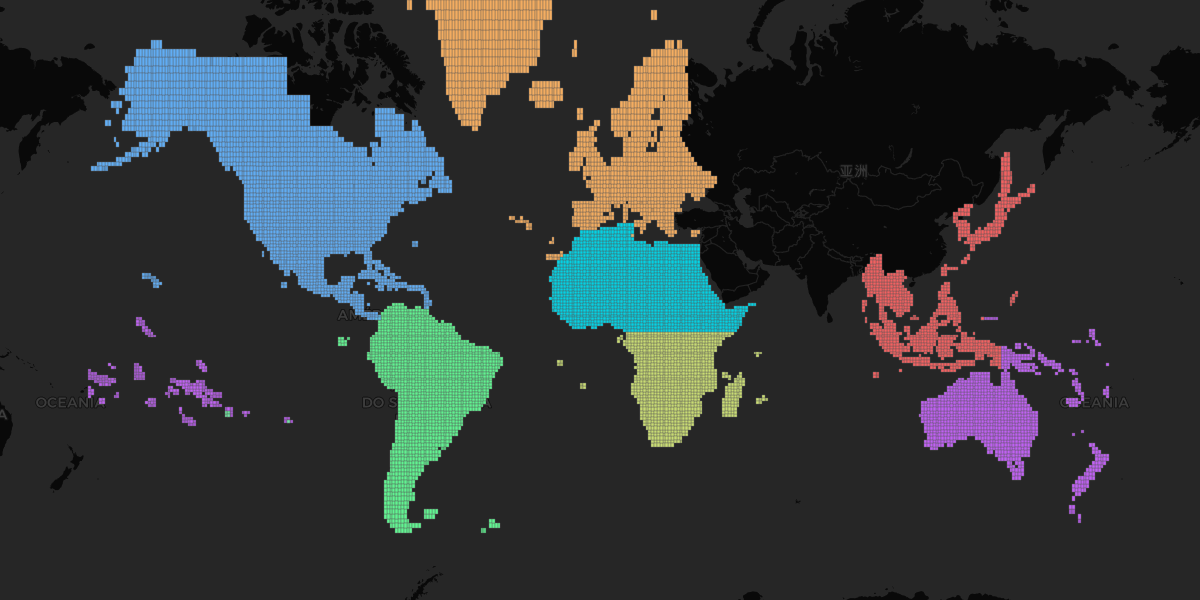
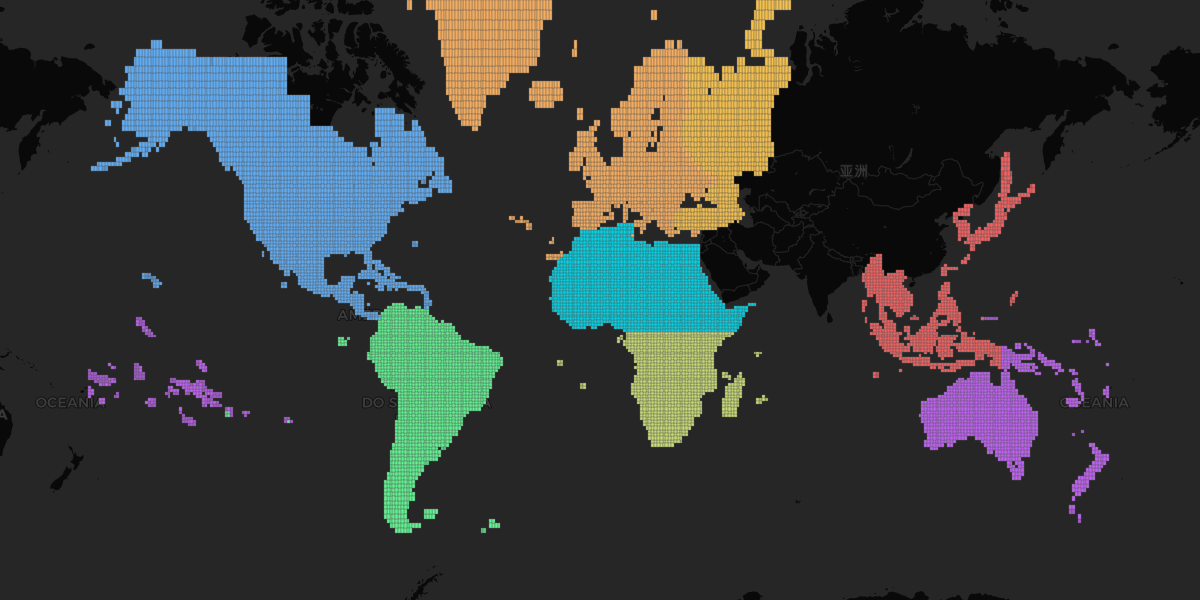
Add EU2 (Europe - Part 2) coverage maps and documentation
- Initial release covering Eastern Europe, Scandinavia, Caucasus,
  Eastern Mediterranean, and European Russia extending to the Urals
- 883 ortho DSFs, 873 overlay DSFs
- Geographic extent: +35°/+77° lat, +026°/+068° lon
- Color: tangerine (brighter orange variant)

Changed region(s): [[0.555, 0.0, 0.6783, 0.39]]

diff --git a/README.md b/README.md
@@ -6,7 +6,7 @@ This repository hosts regional scenery packages for [XEarthLayer](https://github
 
 ![Tile Coverage Map](coverage.png)
 
-*NA tiles in blue, EU tiles in orange, SA tiles in green, OC tiles in purple, AS3 tiles in red, AF1 tiles in cyan, AF2 tiles in yellowish-green. [View interactive map](coverage.geojson) for exact tile boundaries.*
+*NA tiles in blue, EU tiles in orange, EU2 tiles in tangerine, SA tiles in green, OC tiles in purple, AS3 tiles in red, AF1 tiles in cyan, AF2 tiles in yellowish-green. [View interactive map](coverage.geojson) for exact tile boundaries.*
 
 ## Available Regions
 
@@ -16,6 +16,7 @@ This repository hosts regional scenery packages for [XEarthLayer](https://github
 | Africa - Part 2 | AF2 | 0.1.0 | 1,058 | 7.9 GB | 541 MB |
 | Asia - Part 3 | AS3 | 0.1.0 | 901 | 13.3 GB | 1.3 GB |
 | Europe | EU | 0.1.1 | 1,995 | 29.8 GB | 2.1 GB |
+| Europe - Part 2 | EU2 | 0.1.0 | 883 | 11.1 GB | 578.9 MB |
 | North America | NA | 0.2.3 | 2,860 | 72.9 GB | 2.5 GB |
 | Oceania | OC | 0.2.0 | 1,276 | 8.7 GB | 239 MB |
 | South America | SA | 0.2.0 | 1,734 | 26.5 GB | 1.1 GB |
@@ -51,6 +52,20 @@ Expanded coverage including:
 - Eastern Europe (Poland, Czech Republic, Hungary, Balkans)
 - Mediterranean (Greece, Turkey, Cyprus)
 - Baltic States
+
+### Europe - Part 2 (EU2) v0.1.0
+
+Initial release covering:
+- **Eastern Europe** - Bulgaria, Romania, Moldova, Ukraine, Belarus
+- **Baltic States** - Estonia, Latvia, Lithuania (eastern coverage)
+- **Scandinavia** - Finland, Sweden (east), Norway (north and east)
+- **Eastern Mediterranean** - Turkey, Cyprus
+- **Caucasus** - Georgia, Armenia, Azerbaijan
+- **European Russia** - Moscow, St Petersburg, Volga region, North Caucasus
+- **Western Siberia** - extending to the Ural Mountains and slightly beyond
+- **Russian Arctic** - Kola, Kanin, Yamal, Gydan peninsulas, Novaya Zemlya
+
+Geographic extent: +35° to +77° latitude, +026° to +068° longitude
 
 ### North America (NA) v0.2.3
 